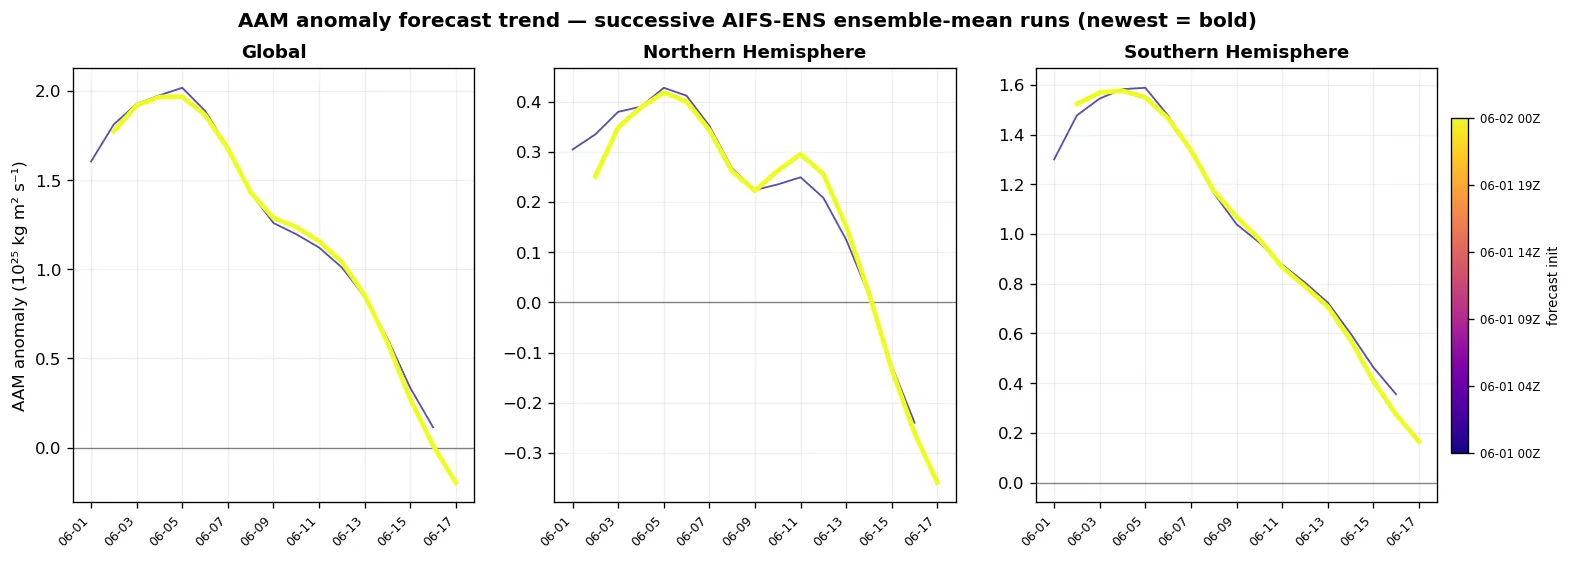
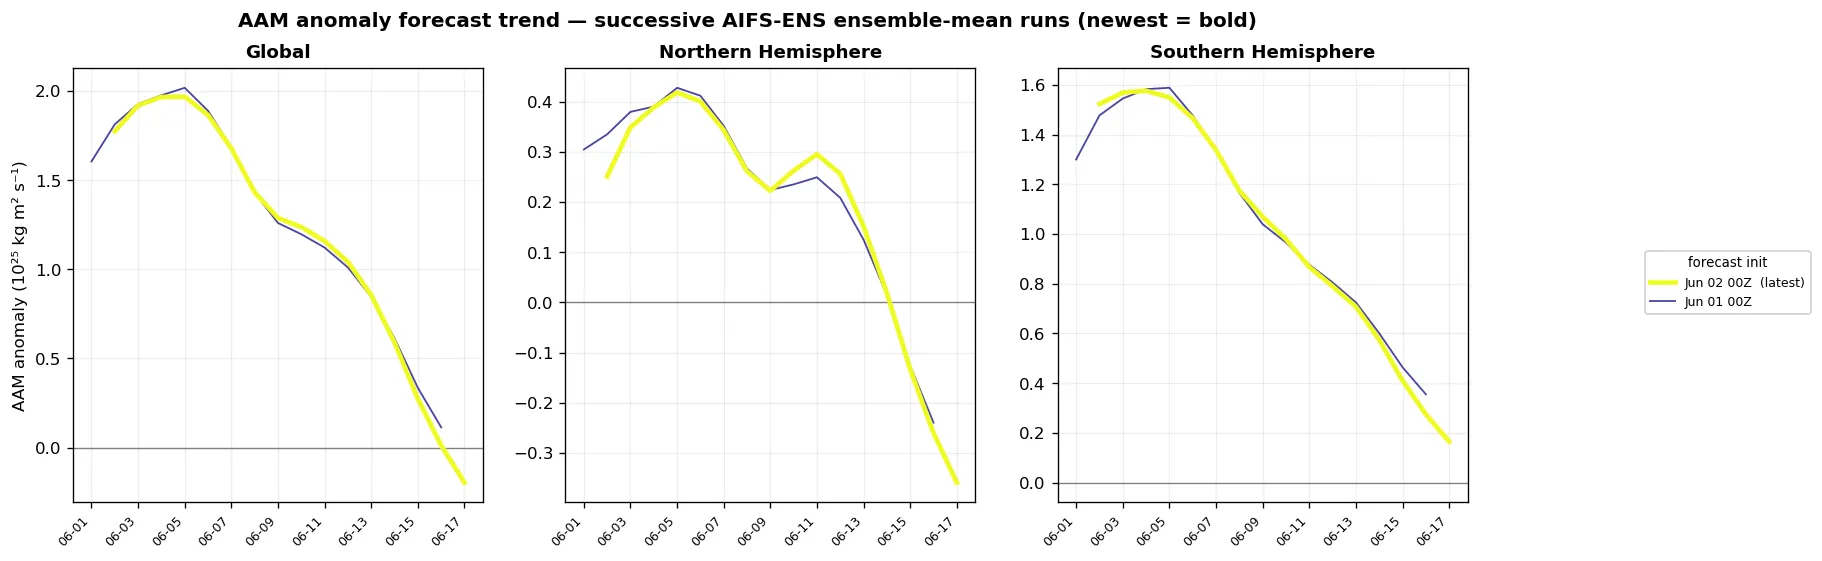
AAM trend: replace continuous init-date colourbar with a simple line legend (init labelled by date + 00Z/12Z, newest bold)

diff --git a/scripts/mjo/src/aam.py b/scripts/mjo/src/aam.py
@@ -258,10 +258,9 @@ def plot_trend(out: Path, n_runs: int = 14):
     arch = xr.open_dataset(ARCHIVE_PATH)
     clim = xr.open_dataset(CLIM_PATH) if CLIM_PATH.exists() else None
     inits = pd.to_datetime(arch.init.values)[-n_runs:]
-    nums = mdates.date2num(inits)
-    norm = mcolors.Normalize(nums.min(), nums.max() + 1e-6)
-    cmap = cm.plasma
+    n = len(inits); cmap = cm.plasma
     fig, axes = plt.subplots(1, 3, figsize=(15, 4.7))
+    handles = []
     for j, (key, title) in enumerate(REG):
         ax = axes[j]
         coef = clim["coeffs"].sel(region=key).values if clim is not None else None
@@ -269,19 +268,21 @@ def plot_trend(out: Path, n_runs: int = 14):
             fc = arch["fc_mean"].sel(region=key, init=it).values
             valid = pd.to_datetime([it + pd.Timedelta(days=int(l)) for l in arch.lead.values])
             y = fc - eval_clim(coef, np.array([d.dayofyear for d in valid])) if coef is not None else fc
-            newest = i == len(inits) - 1
-            ax.plot(valid, y, color=cmap(norm(nums[i])), lw=2.8 if newest else 1.1,
-                    alpha=1.0 if newest else 0.7, zorder=5 if newest else 2)
+            newest = i == n - 1
+            ln, = ax.plot(valid, y, color=cmap(i / max(n - 1, 1)), lw=2.8 if newest else 1.1,
+                          alpha=1.0 if newest else 0.75, zorder=5 if newest else 2,
+                          label=f"{it:%b %d} {it:%H}Z" + ("  (latest)" if newest else ""))
+            if j == 0:
+                handles.append(ln)
         ax.axhline(0, color="0.5", lw=0.8); ax.grid(True, alpha=0.2)
         ax.set_title(title, fontsize=11, fontweight="bold")
         ax.xaxis.set_major_formatter(mdates.DateFormatter("%m-%d"))
         for lab in ax.get_xticklabels():
             lab.set_rotation(45); lab.set_ha("right"); lab.set_fontsize(7.5)
     axes[0].set_ylabel("AAM anomaly (10²⁵ kg m² s⁻¹)")
-    sm = cm.ScalarMappable(norm=norm, cmap=cmap); sm.set_array([])
-    cb = fig.colorbar(sm, ax=axes, fraction=0.012, pad=0.01)
-    cb.ax.yaxis.set_major_formatter(mdates.DateFormatter("%m-%d %HZ"))
-    cb.set_label("forecast init", fontsize=8); cb.ax.tick_params(labelsize=7)
+    fig.legend(handles[::-1], [h.get_label() for h in handles[::-1]], loc="center left",
+               bbox_to_anchor=(0.995, 0.5), fontsize=7.5, framealpha=0.9,
+               title="forecast init", title_fontsize=8)
     fig.suptitle("AAM anomaly forecast trend — successive AIFS-ENS ensemble-mean runs "
                  "(newest = bold)", fontsize=12, fontweight="bold")
     out.parent.mkdir(parents=True, exist_ok=True)
